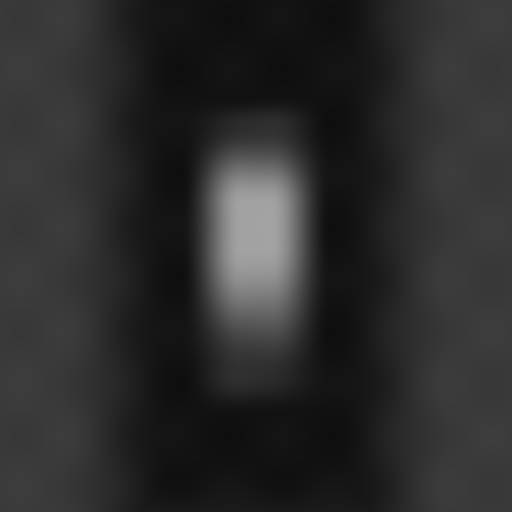
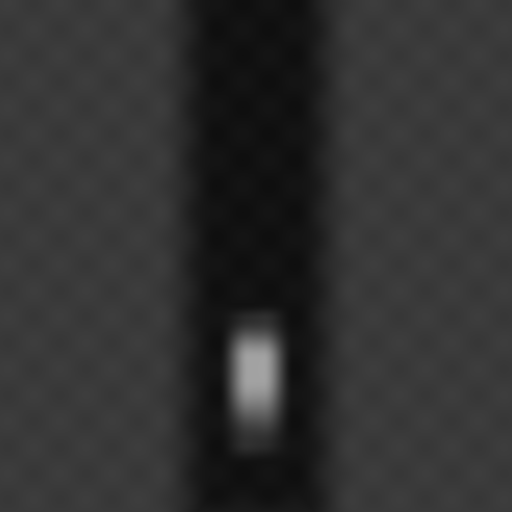
Selva Oscura: extend Selva south to cover Limbo (no more cavern visible from plateau) + add selva-oscura package.sh for shareable bundles + gitignore stray build dirs

diff --git a/games/selva-oscura/scripts/gen_terrain_heightmap.py b/games/selva-oscura/scripts/gen_terrain_heightmap.py
@@ -52,10 +52,17 @@ REGIONS = {}
 SELVA_INNER = {
     "name": "selva_inner",
     "resolution": 512,
-    "world_extent": 512.0,        # 1m per pixel
-    "world_origin_x": 0.0,        # heightmap centered at (origin_x, origin_z)
-    "world_origin_z": -180.0,     # centered on the colle ridge (shifted south
-                                  # to fit the longer steep-climb segment)
+    # World-completeness doctrine: ground above any cavern must exist.
+    # Limbo extends from Z=-321 to Z=-921. Selva's south edge must
+    # reach past Limbo's south rim so the player can never see down
+    # into Limbo from atop the plateau. Keep the north edge at +76
+    # (spawn approach) — extend south to ~-948. Per-pixel resolution
+    # drops from 1m to 2m, fine because the far-south expanse is
+    # featureless wood-floor.
+    "world_extent": 1024.0,
+    "world_origin_x": 0.0,
+    "world_origin_z": -436.0,     # 1024-extent centered so north edge = +76,
+                                  # south edge = -948 (past Limbo's south rim -921)
     "height_min": -6.0,
     "height_max": 38.0,
 

diff --git a/games/selva-oscura/src/gameplay/PerFrameTick.cpp b/games/selva-oscura/src/gameplay/PerFrameTick.cpp
@@ -639,7 +639,7 @@ static void terrainProbeDump(const char* label, float px, float py, float pz)
                      m.value, dx_out, dz_out, inside ? "INSIDE" : "outside");
     }
     // Sample the 4 surrounding terrain grid vertices.
-    constexpr float kQuad = 512.0f / 384.0f; // = 1.333
+    constexpr float kQuad = 1024.0f / 384.0f; // = 2.667 (selva_inner extent / subdivide)
     const int gx = static_cast<int>(std::floor(px / kQuad));
     const int gz = static_cast<int>(std::floor(pz / kQuad));
     std::fprintf(probe_log, "  --- 4 surrounding terrain vertices (spacing %.3fm) ---\n", kQuad);

diff --git a/games/selva-oscura/src/world/PhysicsScene.cpp b/games/selva-oscura/src/world/PhysicsScene.cpp
@@ -157,7 +157,7 @@ void registerChapelTerrainModifiers()
     //    INSIDE the corridor airspace and blocks the player descent
     //    (verified by physics-debug.log contact at Y=32.25 in the
     //    corridor mouth area).
-    constexpr float kTerrainQuadSpacing = 512.0f / 384.0f; // 1.333m at subdivide=384
+    constexpr float kTerrainQuadSpacing = 1024.0f / 384.0f; // 2.667m at subdivide=384, extent=1024
     {
         const float front_edge_z = kCryptZ + kHalfLength - kTerrainQuadSpacing;
         const float back_edge_z = (kCryptZ - kHalfLength) - kTerrainQuadSpacing;
